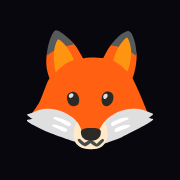
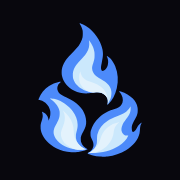
Blue flames in the tab, and a title that fits
The favicon is now three blue flames, traced from a flat three-tone
drawing into stacked vector layers (assets/favicon.svg, 7.5 KB); the
ICO, the 96px PNG and the touch icon are rendered from it in Chrome, at
the same URLs, so the head's links don't change.

The tab title was "ORIGIN — Ethan Tiong · A Nine-Tailed Portfolio",
which a tab cuts off after "ORIGIN — Eth". It is now "Ethan Tiong —
Portfolio", which fits a tab whole. The share card's og:title is
unchanged.

Claude-Session: https://claude.ai/code/session_018K1wpNn9XrWQvHEk8KK1ew

diff --git a/index.html b/index.html
@@ -3,14 +3,14 @@
 <head>
   <meta charset="UTF-8">
   <meta name="viewport" content="width=device-width, initial-scale=1.0">
-  <title>ORIGIN — Ethan Tiong · A Nine-Tailed Portfolio</title>
+  <title>Ethan Tiong — Portfolio</title>
   <meta name="description" content="Ethan Tiong — RTL &amp; digital design for ASIC and FPGA, told as a nine-tailed fox story. Waterloo EE, open for a Winter 2027 co-op.">
   <meta name="theme-color" content="#08070d">
   <link rel="canonical" href="https://www.etiong.com/">
-  <!-- the fox emoji as files a crawler can fetch: Google Search can't use a
-       data: URI icon, so results showed its default globe. Chrome draws the
-       tab from the SVG at any zoom (an ICO listed without sizes would win
-       instead); the 96px PNG and the ICO serve Google and older browsers -->
+  <!-- three blue flames, as files a crawler can fetch (Google Search can't
+       use a data: URI icon). Chrome draws the tab from the SVG at any zoom
+       (an ICO listed without sizes would win instead); the 96px PNG and the
+       ICO serve Google and older browsers -->
   <link rel="icon" href="assets/favicon.svg" type="image/svg+xml">
   <link rel="icon" href="assets/favicon-96x96.png" sizes="96x96" type="image/png">
   <link rel="icon" href="favicon.ico" sizes="48x48">

diff --git a/README.md b/README.md
@@ -61,7 +61,7 @@ node tools/bake-fox-rasters.mjs [pose ...]
 
 The earlier iteration of this portfolio is preserved on the [`previous-attempt`](../../tree/previous-attempt) branch.
 
-The favicon is the fox from Google's [Noto Emoji](https://github.com/googlefonts/noto-emoji) (Apache 2.0): `assets/favicon.svg`, with `favicon.ico` (16/32/48), `assets/favicon-96x96.png` and `assets/apple-touch-icon.png` rendered from it in Chrome.
+The favicon is three blue flames: `assets/favicon.svg`, traced from a flat three-tone drawing, with `favicon.ico` (16/32/48), `assets/favicon-96x96.png` and `assets/apple-touch-icon.png` rendered from it in Chrome.
 
 ---
 
